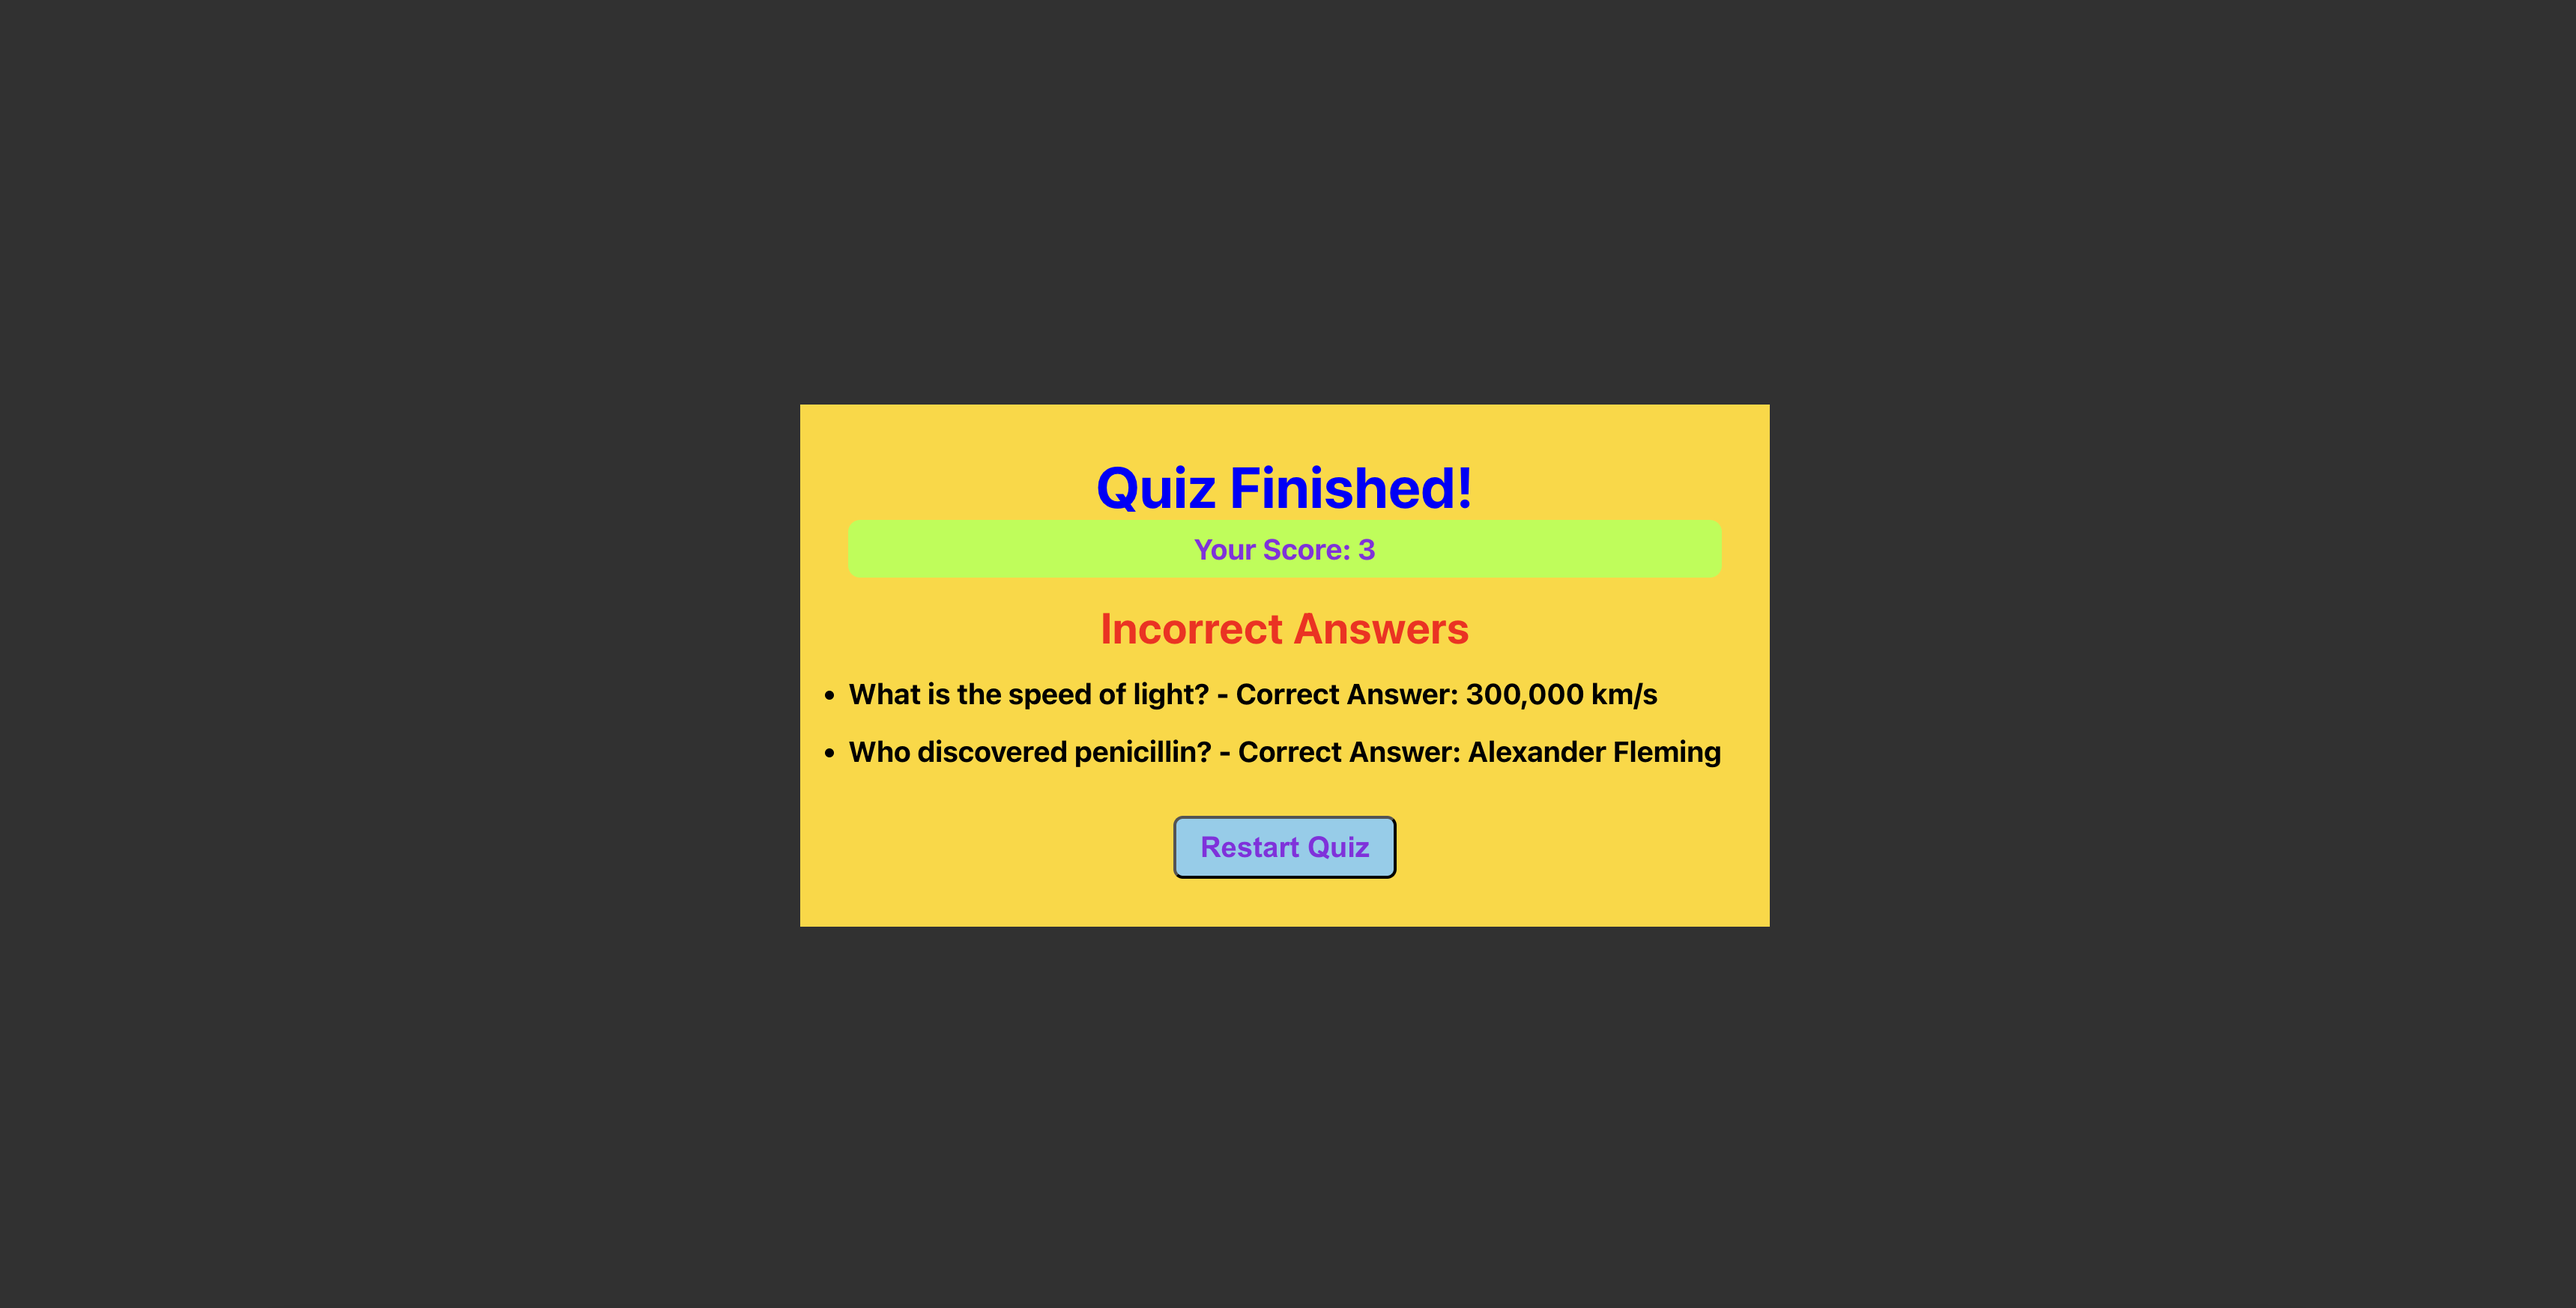
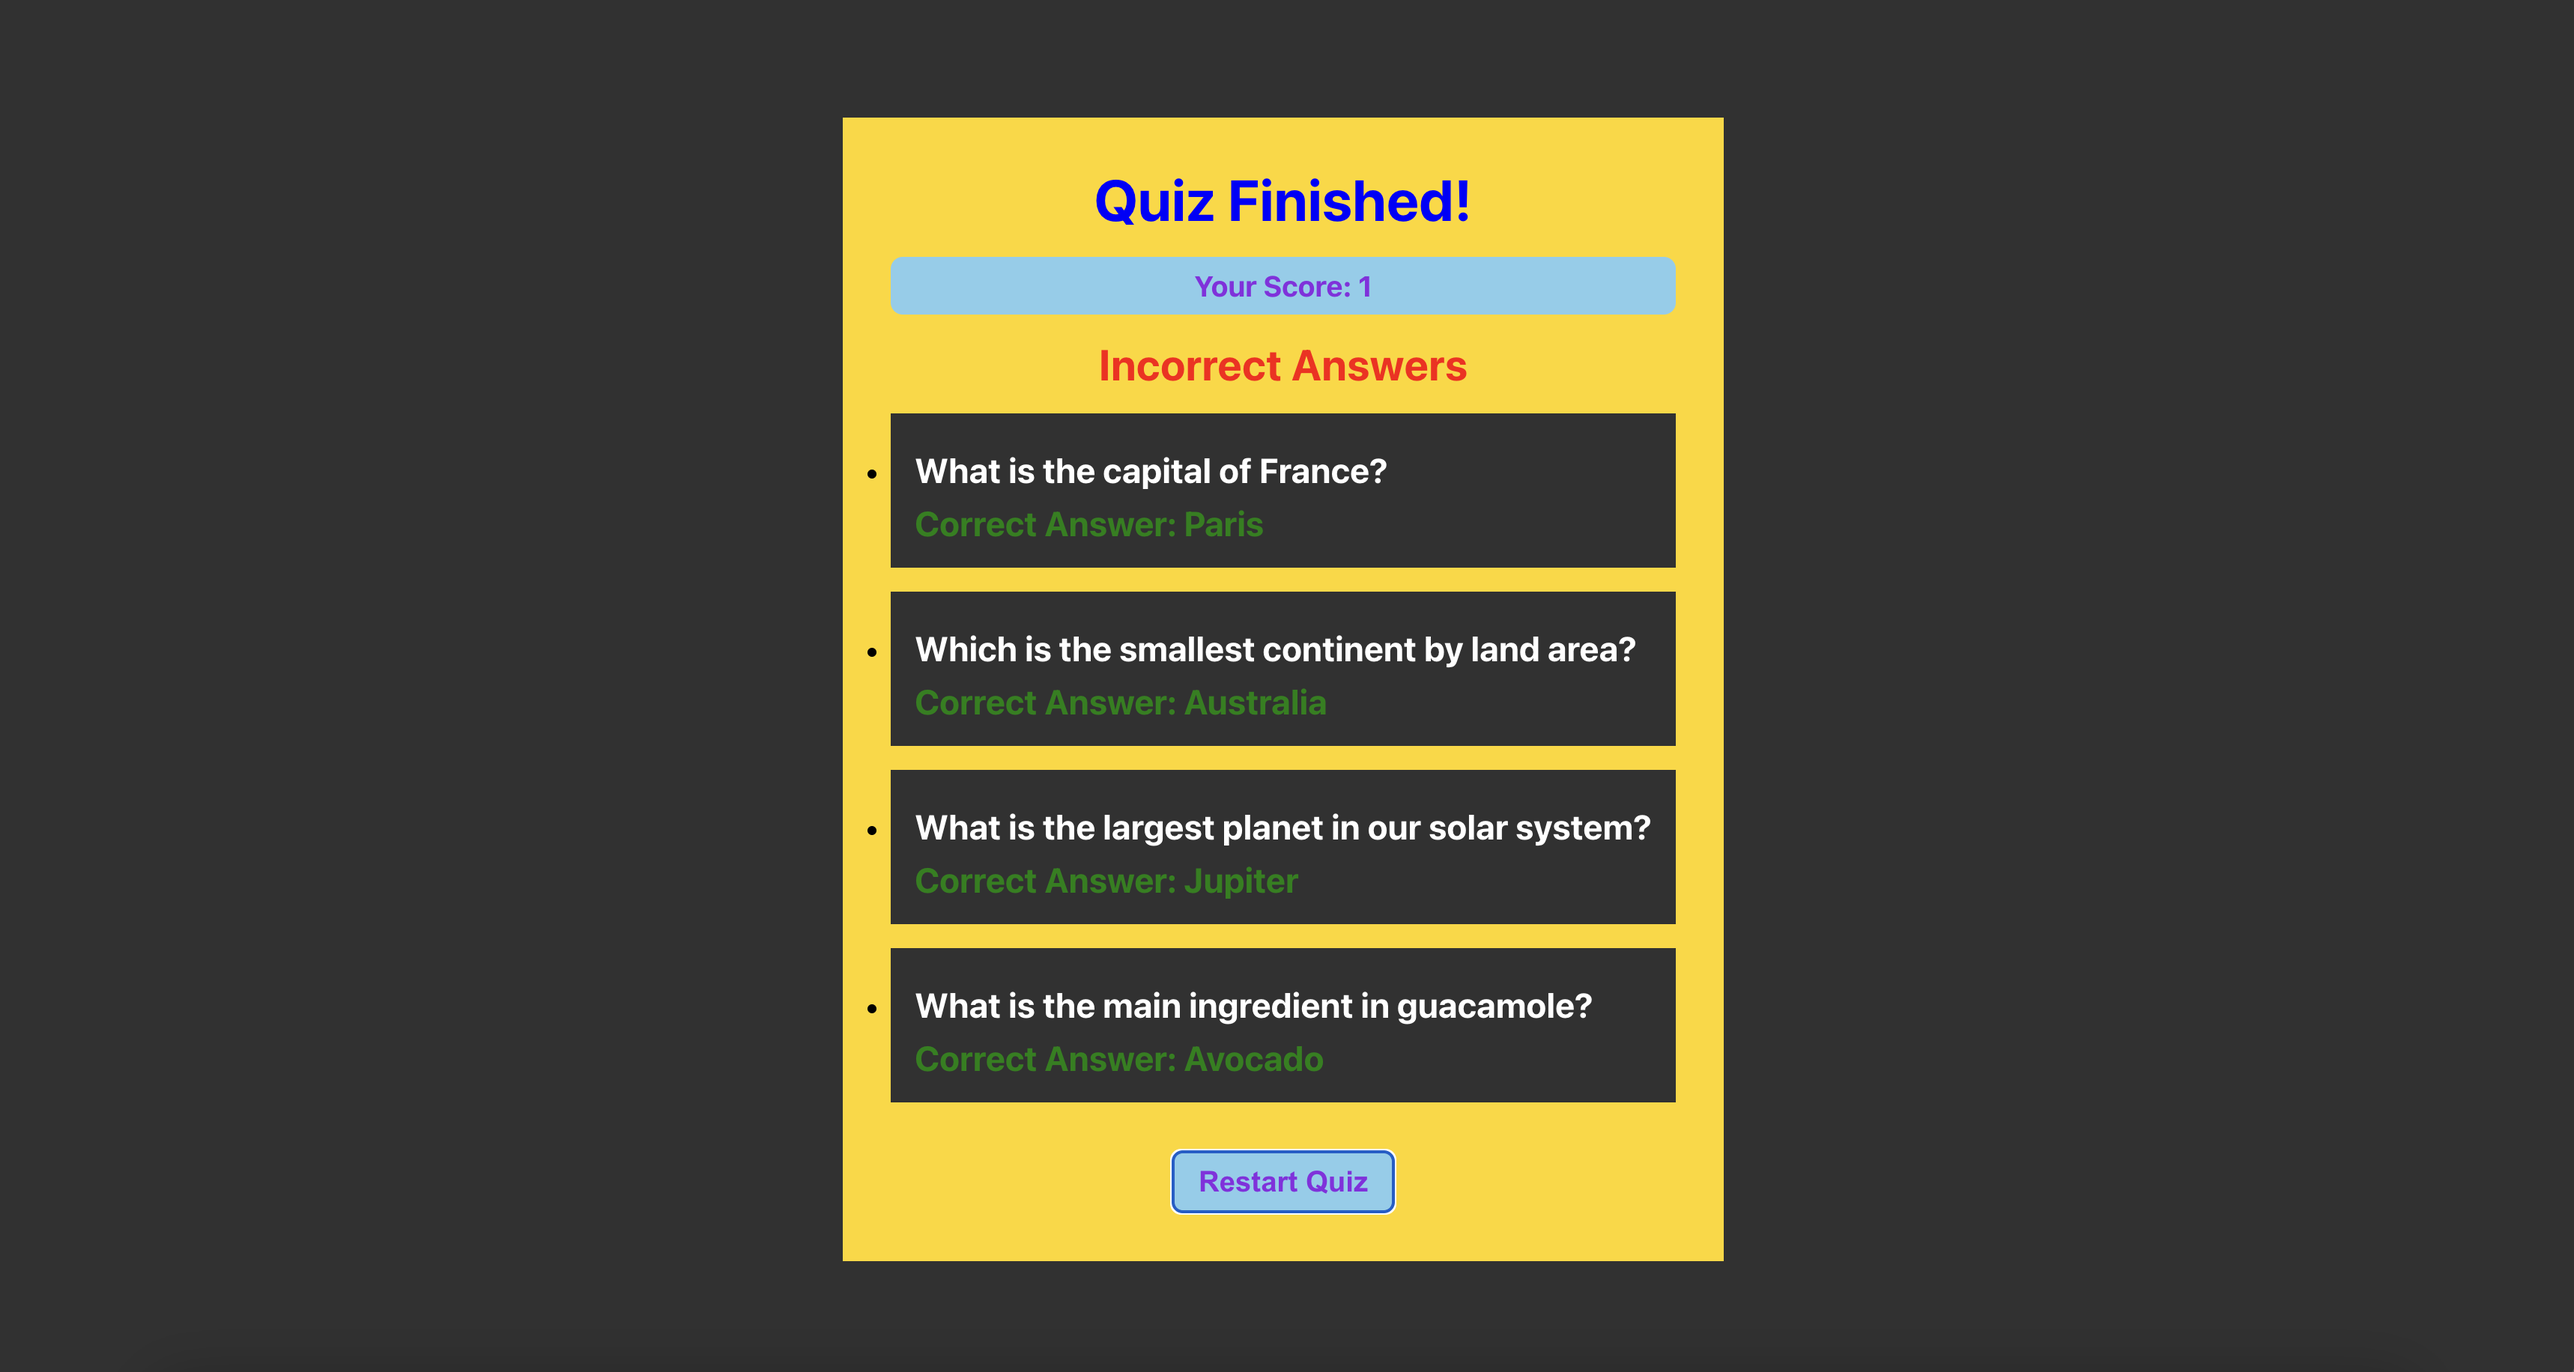
Responsive Improved

Changed region(s): [[0.3114, 0.0619, 0.6851, 0.9278]]

diff --git a/src/App.css b/src/App.css
@@ -80,6 +80,7 @@
   font-weight: bold;
 }
 
+/* -------------------- Result Page -------------- */
 
 .result-container{
   background-color: #313131;
@@ -103,10 +104,11 @@
   color: blue;
 }
 
-.result-main p{
-  background-color: greenyellow;
+.result-score{
+  background-color: skyblue;
   color: blueviolet;
   padding: 0.5rem;
+  margin-top: 1rem;
   font-size: 1.2rem;
   font-weight: bold;
   border-radius: 0.5rem;
@@ -125,6 +127,22 @@
   text-align: start;
 }
 
+.result-main li{
+  background-color: #313131;
+  padding: 1rem;
+}
+
+.result-question{
+  color: white;
+  font-size: larger;
+  margin: 0.5rem 0;
+}
+
+.result-answer{
+  color: green;
+  font-size: larger;
+}
+
 .result-main button{
   background-color: skyblue;
   color: blueviolet;
@@ -133,4 +151,164 @@
   padding: 0.5rem 1rem;
   border-radius: 0.4rem;
   margin-top: 2rem;
+}
+
+/*--------------- Media Query ----------*/
+@media screen and (min-width : 769px) and (max-width : 1024px){
+  .main{
+    width: 70%;
+    height: 70%;
+  }
+
+  /* ------------ Result --------- */
+  .result-main{
+    width: 90%;
+    height: 100vh;
+  }
+
+  .result-main ul{
+    gap: 0.5rem;
+  }
+
+  .result-main li{
+    padding: 0.8rem;
+  }
+}
+
+@media screen and (min-width : 426px) and (max-width : 768px){
+  .main{
+    width: 100%;
+    height: 100vh;
+  }
+
+  .main h1{
+    margin-top: 4rem;
+  }
+
+  .grid-container{
+    grid-template-columns: auto;
+  }
+
+  .ans{
+    font-size: larger;
+    font-weight: bolder;
+    border-radius: 1rem;
+  }
+
+  /* ------------ Result --------- */
+  .result-container{
+    padding: 0;
+  }
+
+  .result-main{
+    width: 100%;
+    height: 100vh;
+  }
+
+  .result-main ul{
+    gap: 0.5rem;
+  }
+
+  .result-main li{
+    padding: 0.8rem;
+  }
+}
+
+@media screen and (min-width : 375px) and (max-width : 425px){
+  .main{
+    width: 100%;
+    height: 100vh;
+    padding: 1rem;
+  }
+
+  .main h1{
+    margin-top: 4rem;
+  }
+
+  .grid-container{
+    grid-template-columns: auto;
+  }
+
+  .ans{
+    font-size: larger;
+    font-weight: bolder;
+    border-radius: 0.5rem;
+  }
+
+  /* ------------ Result --------- */
+  .result-container{
+    padding: 0;
+  }
+
+  .result-main{
+    width: 100%;
+    height: 100vh;
+  }
+
+  .result-main ul{
+    gap: 0.5rem;
+  }
+
+  .result-main li{
+    padding: 0.7rem;
+  }
+
+  .result-question{
+    font-size: large;
+  }
+
+  .result-answer{
+    font-size: large;
+  }
+}
+
+
+
+@media screen and (min-width : 320px) and (max-width : 374px){
+  .main{
+    width: 100%;
+    height: 100vh;
+    padding: 1rem;
+  }
+
+  .main h1{
+    margin-top: 4rem;
+  }
+
+  .grid-container{
+    grid-template-columns: auto;
+  }
+
+  .ans{
+    font-size: larger;
+    font-weight: bolder;
+    border-radius: 0.5rem;
+  }
+
+  /* ------------ Result --------- */
+  .result-container{
+    padding: 0;
+  }
+
+  .result-main{
+    width: 100%;
+    height: 100vh;
+  }
+
+  .result-main ul{
+    gap: 0.5rem;
+  }
+
+  .result-main li{
+    padding: 0.7rem;
+  }
+
+  .result-question{
+    font-size: large;
+  }
+
+  .result-answer{
+    font-size: large;
+  }
+
 }

diff --git a/src/quiz.js b/src/quiz.js
@@ -155,14 +155,15 @@ const Quiz = () => {
         <div className='result-container'>
             <div className='result-main'>
                 <h1>Quiz Finished!</h1>
-                <p>Your Score: {score}</p>
+                <p className='result-score'>Your Score: {score}</p>
                 {wrongAnswers.length > 0 && (
                     <>
                         <h2>Incorrect Answers</h2>
                         <ul>
                         {wrongAnswers.map((question, index) => (
                             <li key={index}>
-                            {question.question} - Correct Answer: {question.answer}
+                              <p className='result-question'>{question.question}</p>
+                              <p className='result-answer'>Correct Answer: {question.answer}</p>
                             </li>
                         ))}
                         </ul>

diff --git a/README.md b/README.md
@@ -4,9 +4,9 @@ This is a simple quiz application built using React. It presents multiple-choice
 
 ## Screenshots
 
-![Quiz Application Screenshot](../quiz-app/public/screenshort/home.png)
+![Quiz Application Screenshot](./public/screenshort/home.png)
 
-![Quiz Result Screenshot](../quiz-app/public/screenshort/result.png)
+![Quiz Result Screenshot](./public/screenshort/result.png)
 
 ## Features
 
